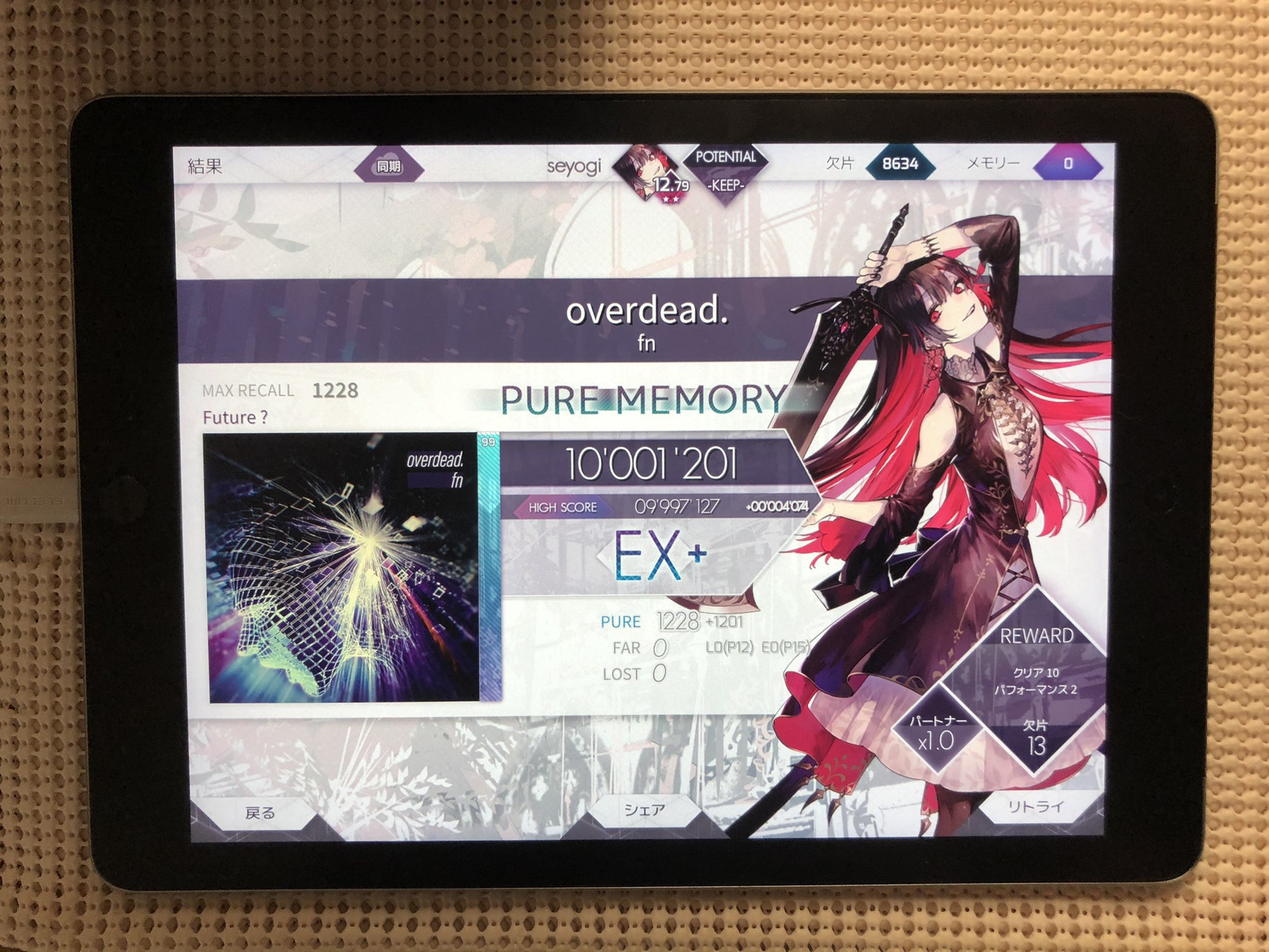
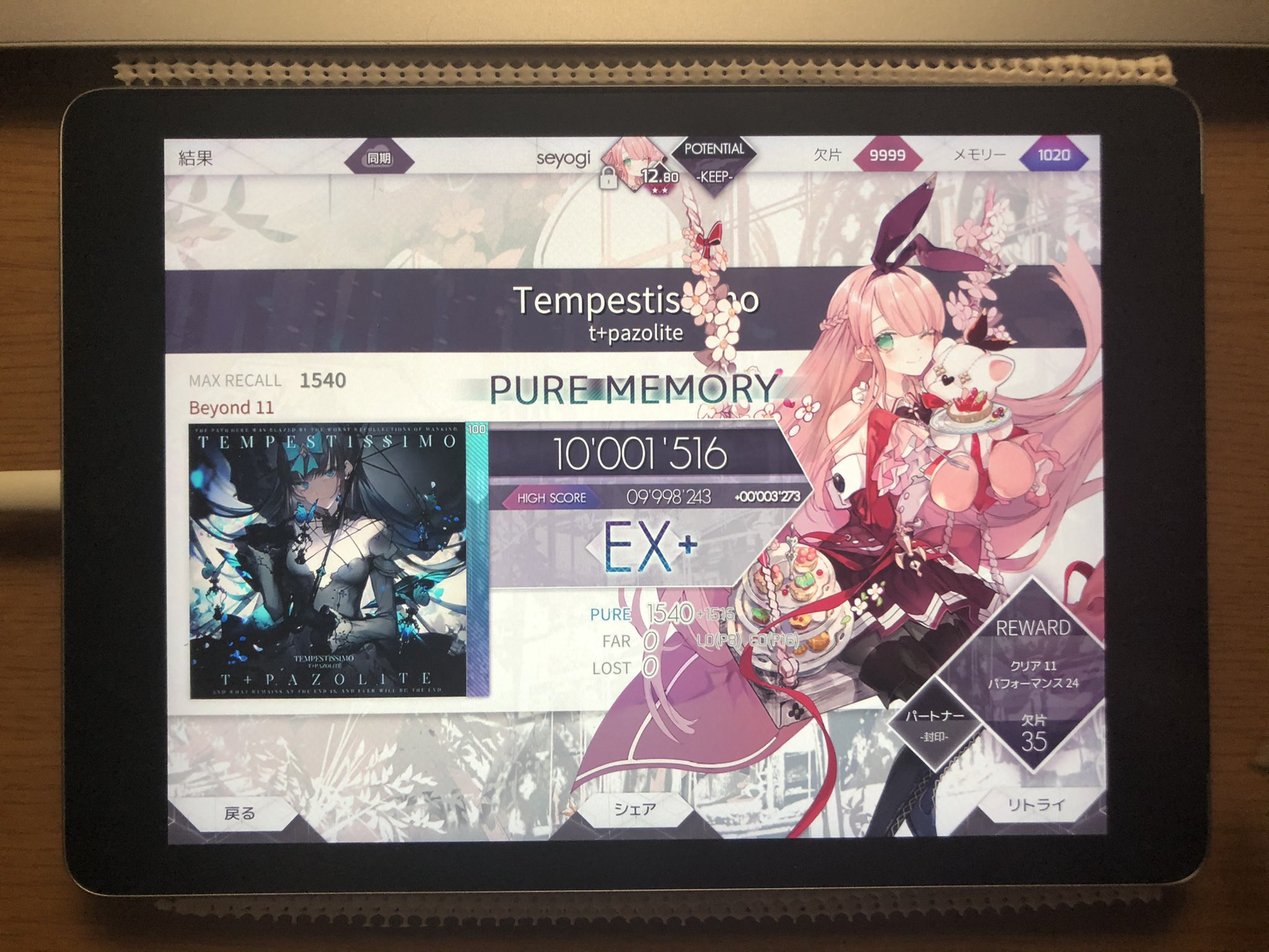
tempe

diff --git a/MusicGame/home.html b/MusicGame/home.html
@@ -76,10 +76,10 @@
     <p class="blocktext">
       <img src="../image/Result/Arcaea01.jpeg"　width="340" height="255" alt="　">
       <img src="../image/Result/Arcaea_1.22_Total.jpeg"　width="340" height="255" alt="　"><br><br>
-      <b>potential...12.79</b><br>
-      <a href="https://twitter.com/syg_74/status/1262020149986516995" target="_blank">
-      2020/05/17</a>に一度、全譜面PureMemoryを達成しましたが、Tempestissimo BYDとか言う暴力譜面に負けました(怒)<br>
-      2021/4/6時点でエイプリルフール譜面を含み、PST,PRS,FTR全PMです。<br></p><br><br>      
+      <b>potential...12.80</b><br>
+      <a href="https://twitter.com/syg_74/status/1391357257921667077" target="_blank">
+      2021/05/09</a>、Tempestissimo BYDとか言う暴力譜面に勝ちました！！！！<br>
+      2021/05/09時点でエイプリルフール譜面を含み、全曲全難易度PMです。<br></p><br><br>      
       
     <a id="Dynamix"></a>
     <h2>Dynamix</h2><br>
